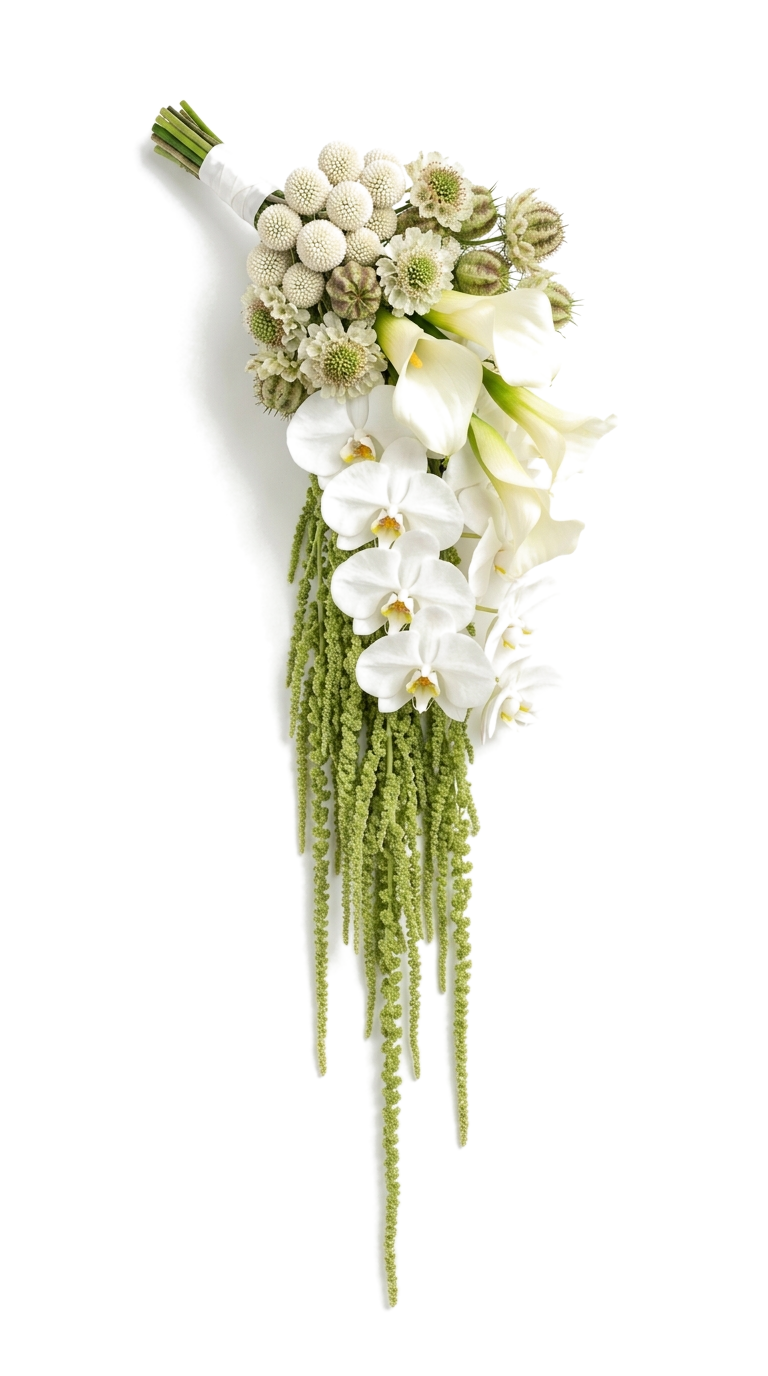
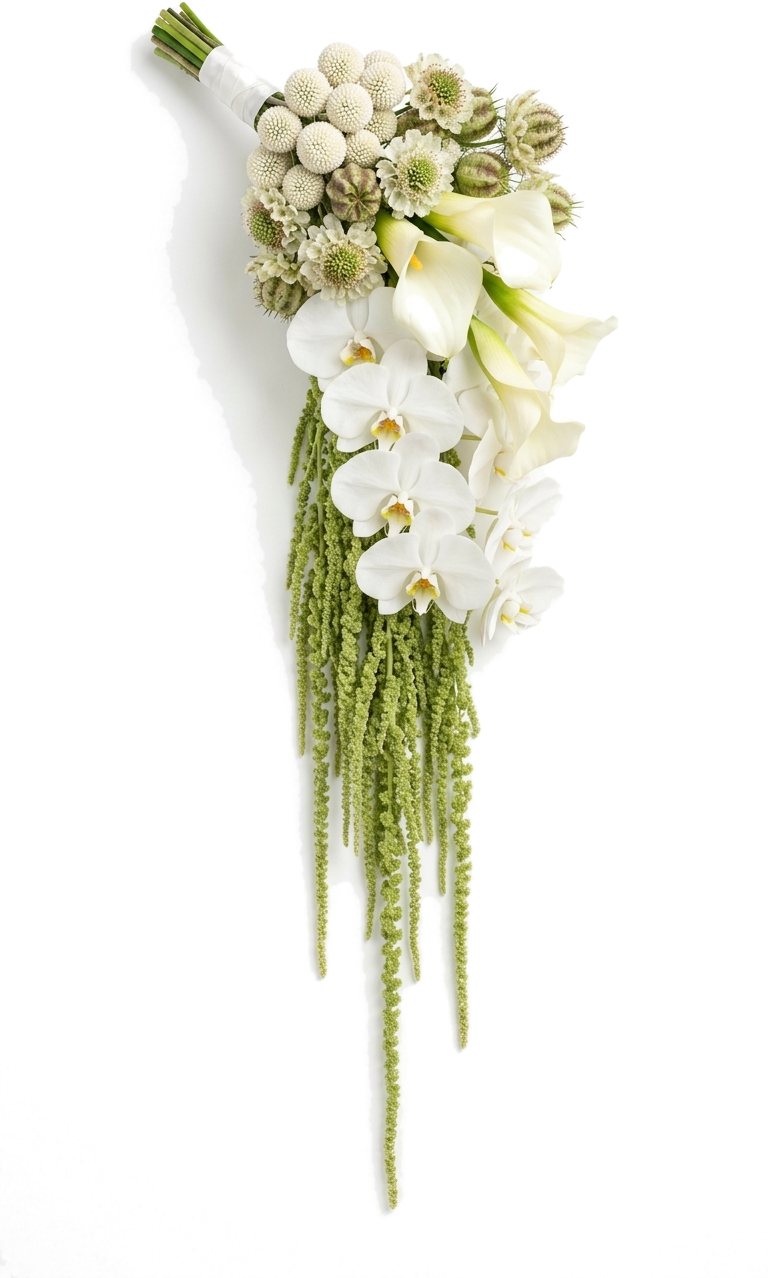
fix(hero): perfeccionar proporcion y composicion del hero editorial segun referencia Amorea

Changed region(s): [[0.1562, 0.0, 0.8125, 0.946]]

diff --git a/app/static/css/style.css b/app/static/css/style.css
@@ -363,11 +363,16 @@ body.envelope-locked{
 }
 
 /* Composición de Tarjeta de Boda con Sobre Ocre de Fondo y Arreglo Floral Colgante */
+.hero--editorial{
+  padding:46px 0 12px;
+  overflow:visible;
+}
+
 .editorial-card-wrapper{
   position:relative;
   width:100%;
-  max-width:390px;
-  margin:24px auto 0;
+  max-width:380px;
+  margin:0 auto;
   display:flex;
   flex-direction:column;
   align-items:center;
@@ -376,14 +381,14 @@ body.envelope-locked{
 /* Sobre abierto de fondo en tono ocre idéntico a la apertura */
 .editorial-sobre-fondo{
   position:absolute;
-  top:-75px;
+  top:-72px;
   left:50%;
-  transform:translateX(-50%);
-  width:320px;
-  max-width:88vw;
+  transform:translateX(-40%) rotate(-10deg);
+  width:370px;
+  max-width:96vw;
   z-index:1;
   pointer-events:none;
-  filter:drop-shadow(0 14px 28px rgba(62,44,15,.22));
+  filter:drop-shadow(0 16px 30px rgba(62,44,15,.18));
 }
 
 .sobre-fondo-img{
@@ -395,11 +400,12 @@ body.envelope-locked{
 /* Arreglo floral colgante en la esquina superior izquierda idéntico al video */
 .editorial-flores-esquina{
   position:absolute;
-  top:12px;
+  top:-26px;
   left:-14px;
-  z-index:10;
-  width:105px;
+  z-index:5;
+  width:124px;
   pointer-events:none;
+  transform:rotate(-8deg);
   filter:drop-shadow(0 10px 18px rgba(45,30,10,.25));
 }
 
@@ -412,17 +418,17 @@ body.envelope-locked{
 /* Tarjeta con Silueta Barroca Troquelada de Lujo */
 .tarjeta-barroca{
   position:relative;
-  z-index:2;
-  width:340px;
-  max-width:92vw;
-  min-height:510px;
-  padding:55px 28px 45px;
+  z-index:3;
+  width:290px;
+  max-width:88vw;
+  height:365px;
+  padding:30px 20px 22px;
   text-align:center;
   box-sizing:border-box;
   display:flex;
   flex-direction:column;
   align-items:center;
-  justify-content:center;
+  justify-content:space-between;
 }
 
 .barroca-marco-svg{
@@ -445,26 +451,33 @@ body.envelope-locked{
   position:relative;
   z-index:3;
   width:100%;
+  height:100%;
+  display:flex;
+  flex-direction:column;
+  align-items:center;
+  justify-content:space-between;
 }
 
 .barroca-eyebrow{
-  font-size:clamp(.56rem, 1.4vw, .68rem);
-  letter-spacing:.26em;
+  font-family:var(--serif);
+  font-size:clamp(.6rem, 1.5vw, .66rem);
+  letter-spacing:.15em;
   text-transform:uppercase;
   color:var(--ocre-osc-suave);
-  margin:0 auto 12px;
-  max-width:28ch;
+  margin:0 auto;
+  max-width:100%;
   line-height:1.45;
   font-weight:500;
+  white-space:pre-line;
 }
 
 .barroca-nombres{
-  font-family:var(--script);
-  font-size:clamp(2.8rem, 8.5vw, 3.6rem);
+  font-family:'Pinyon Script', cursive;
+  font-size:clamp(3.2rem, 9.4vw, 3.65rem);
   font-weight:normal;
-  line-height:1.05;
+  line-height:.94;
   color:var(--ocre-osc);
-  margin:4px 0 10px;
+  margin:2px 0 4px;
   display:flex;
   flex-direction:column;
   align-items:center;
@@ -473,87 +486,70 @@ body.envelope-locked{
 
 .barroca-nombre{
   display:block;
+  letter-spacing:.02em;
 }
 
 .barroca-amp{
-  font-family:var(--script);
+  font-family:'Pinyon Script', cursive;
   font-style:italic;
   color:var(--ocre-claro);
-  font-size:.68em;
-  margin:2px 0;
+  font-size:1.85rem;
+  line-height:.75;
+  margin:1px 0;
   display:block;
 }
 
-.barroca-ornamento{
+.barroca-pie{
   display:flex;
+  flex-direction:column;
   align-items:center;
-  justify-content:center;
-  gap:8px;
-  margin:8px 0 14px;
-}
-
-.barroca-linea{
-  width:24px;
-  height:1px;
-  background:rgba(184,134,54,.5);
-}
-
-.barroca-rombo{
-  width:5px;
-  height:5px;
-  border:1px solid var(--dorado-fino);
-  transform:rotate(45deg);
+  gap:2px;
+  margin-bottom:2px;
 }
 
 .barroca-ciudad{
-  font-size:.76rem;
-  letter-spacing:.22em;
+  font-family:var(--serif);
+  font-size:.74rem;
+  letter-spacing:.16em;
   text-transform:uppercase;
   color:var(--ocre-osc);
-  margin:4px 0 2px;
+  margin:0;
   font-weight:500;
 }
 
 .barroca-fecha{
   font-family:var(--serif);
-  font-size:clamp(1.05rem, 3.2vw, 1.3rem);
+  font-size:.98rem;
   color:var(--ocre-claro);
-  margin:4px 0 14px;
-  letter-spacing:.04em;
-}
-
-.barroca-badge-invitado{
-  margin-top:14px;
-  background:rgba(159,112,33,.08);
-  border:1px solid rgba(184,134,54,.35);
-  border-radius:8px;
-  padding:8px 16px;
-  display:inline-block;
-}
-
-.badge-rotulo{
-  display:block;
-  font-size:.6rem;
-  letter-spacing:.16em;
-  text-transform:uppercase;
-  color:var(--ocre-osc-suave);
-  margin-bottom:2px;
-}
-
-.badge-familia{
-  display:block;
-  font-family:var(--serif);
-  font-size:clamp(1rem, 2.8vw, 1.22rem);
-  color:var(--ocre-osc);
-  font-weight:500;
-  margin:1px 0;
-}
-
-.badge-lugares{
-  display:block;
-  font-size:.66rem;
-  color:var(--ocre-claro);
+  margin:0;
   letter-spacing:.08em;
+  font-weight:500;
+}
+
+.editorial-invitado-badge{
+  margin-top:14px;
+  text-align:center;
+  z-index:4;
+}
+
+.invitado-pill{
+  display:inline-flex;
+  align-items:center;
+  gap:4px;
+  padding:5px 16px;
+  background:rgba(250,248,242,.92);
+  border:1px solid rgba(184,134,54,.32);
+  border-radius:20px;
+  box-shadow:0 4px 14px rgba(62,44,15,.06);
+  font-family:var(--serif);
+  font-size:.76rem;
+  letter-spacing:.05em;
+  color:var(--tinta-suave);
+}
+
+.invitado-pill strong{
+  color:var(--ocre-osc);
+  font-weight:600;
 }
 
 /* --- Reproductor Interactivo Minimalista estilo Amorea --- */

diff --git a/app/templates/invitacion.html b/app/templates/invitacion.html
@@ -122,24 +122,18 @@
             <span class="barroca-nombre">{{ cfg.NOVIO }}</span>
           </h1>
           
-          <div class="barroca-ornamento" aria-hidden="true">
-            <span class="barroca-linea"></span>
-            <span class="barroca-rombo"></span>
-            <span class="barroca-linea"></span>
+          <div class="barroca-pie">
+            <p class="barroca-ciudad">{{ cfg.LUGAR_CIUDAD or 'Mendoza, Argentina' }}</p>
+            <p class="barroca-fecha">20.12.2026</p>
           </div>
-
-          <p class="barroca-ciudad">{{ cfg.LUGAR_CIUDAD or 'Mendoza, Argentina' }}</p>
-          <p class="barroca-fecha">20.12.2026</p>
-
-          {% if inv %}
-          <div class="barroca-badge-invitado">
-            <span class="badge-rotulo">Invitación para</span>
-            <strong class="badge-familia">{{ inv.nombre_grupo }}</strong>
-            <span class="badge-lugares">{{ inv.cupo_adultos }} adulto{{ 's' if inv.cupo_adultos != 1 }}{% if inv.cupo_ninos %} y {{ inv.cupo_ninos }} niño{{ 's' if inv.cupo_ninos != 1 }}{% endif %}</span>
-          </div>
-          {% endif %}
         </div>
       </article>
+
+      {% if inv %}
+      <div class="editorial-invitado-badge">
+        <span class="invitado-pill">Invitación especial para <strong>{{ inv.nombre_grupo }}</strong> · {{ inv.cupo_adultos }} adulto{{ 's' if inv.cupo_adultos != 1 }}{% if inv.cupo_ninos %}, {{ inv.cupo_ninos }} niño{{ 's' if inv.cupo_ninos != 1 }}{% endif %}</span>
+      </div>
+      {% endif %}
     </div>
   </header>
 
